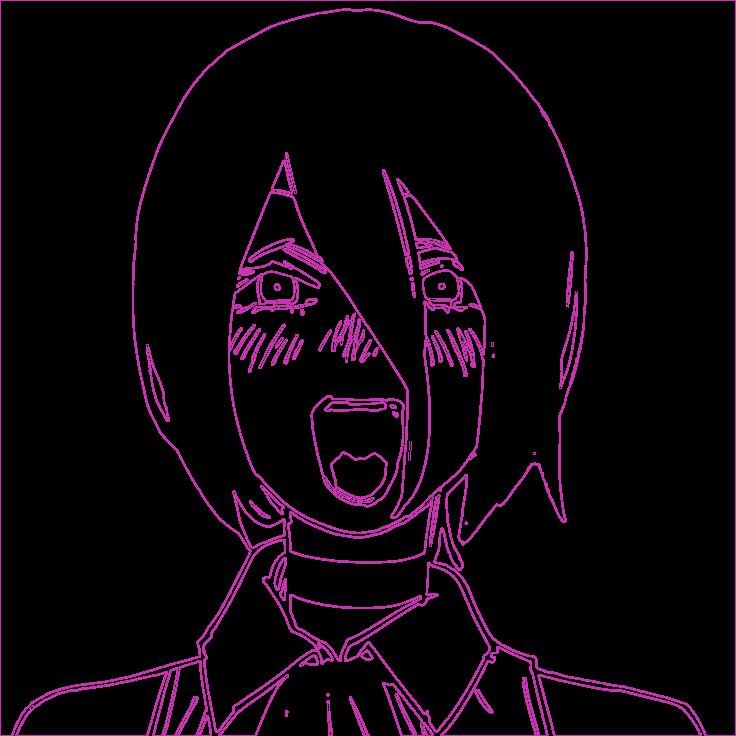
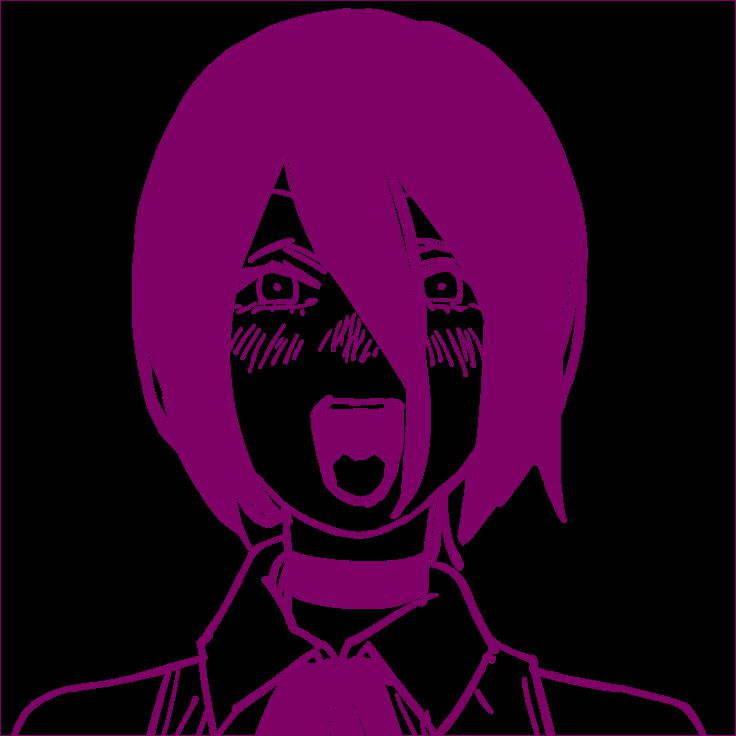
melhor

diff --git a/teste/stylizing.m b/teste/stylizing.m
@@ -2,7 +2,6 @@ pkg load image;
 
 reze = imread("reze.jpg");
 reze_double = im2double(reze);
-imshow(reze_double);
 
 sobel_x = [
   -1, 0, 1;
@@ -15,22 +14,26 @@ sobel_y = [
    1,  2,  1;
 ];
 
-m = 3;
+m = 13;
 
 gx = filter2(sobel_x, reze_double);
 gy = filter2(sobel_y, reze_double);
 M = abs(gx) + abs(gy);
+M = (1-reze_double) + M;
 M = M > 0.9;
+#M = M > 0.9;
+#M = 1.0 - M;
 
-figure, imshow(M);
+
+M = reze_double - M;
 
 gray_img = M;  % values in [0,1]
 
-tint = [0.8, 0.2, 0.7];  % RGB multipliers
+tint = [0.7, 0.0, 0.6];  % RGB multipliers
 
 colored = cat(3, gray_img * tint(1), gray_img * tint(2), gray_img * tint(3));
 
-imshow(colored);
-imwrite(colored, "reze_coloured.jpg");
+figure, imshow(colored);
+imwrite(colored, "org_s_M.jpg");
 
 
